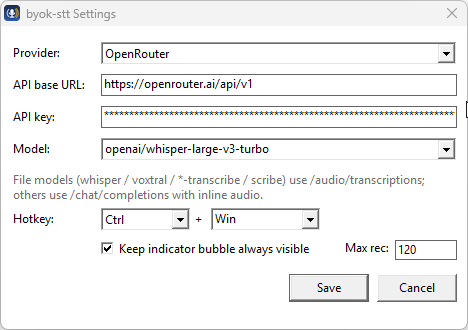
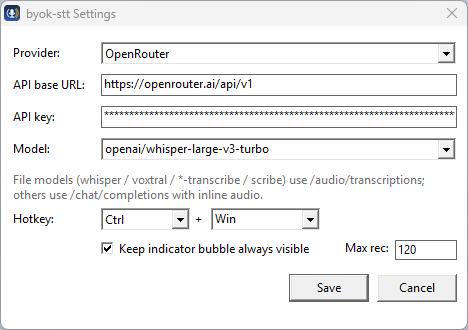
docs: place settings screenshot next to step 3, caption the bubble image, use user-captured settings.png

Changed region(s): [[0.9872, 0.0, 1.0, 1.0], [0.0, 0.9697, 0.0299, 1.0], [0.0, 0.0, 0.0299, 0.0303]]

diff --git a/README.md b/README.md
@@ -51,19 +51,22 @@ thing is a single ~1 MB executable.
 1. Download `byok-stt-v*-windows-x64.zip` from
    [**Releases**](https://github.com/Jackychan122/byok-stt/releases) and unzip it.
 2. Double-click **`byok-stt.exe`** — a microphone icon appears in the system tray.
-3. Right-click the tray icon → **Settings**.
+3. Right-click the tray icon → **Settings**:
+
+   <img src="docs/settings.png" width="466" alt="Settings window"/>
+
 4. Paste your API key, pick a provider and model → **Save**.
    (Get a key: [OpenRouter](https://openrouter.ai/keys) ·
    [OpenAI](https://platform.openai.com/api-keys) ·
    [Groq](https://console.groq.com/keys) ·
    [Gemini](https://aistudio.google.com/apikey) — any OpenAI-compatible
    endpoint works via **Custom**.)
-5. Hold **Ctrl+Win**, speak, release. ✨
+5. Hold **Ctrl+Win**, speak, release. ✨ The bubble shows the state at a
+   glance — gray while idle:
 
 <div align="center">
-<img src="docs/settings.png" width="466" alt="Settings window"/>
-&nbsp;&nbsp;
-<img src="docs/bubble-idle.png" width="106" alt="Idle bubble"/>
+<img src="docs/bubble-idle.png" width="106" alt="Idle bubble (gray)"/><br/>
+<i>The indicator bubble: gray while idle, red while recording, yellow while transcribing.</i>
 </div>
 
 ## Settings reference
